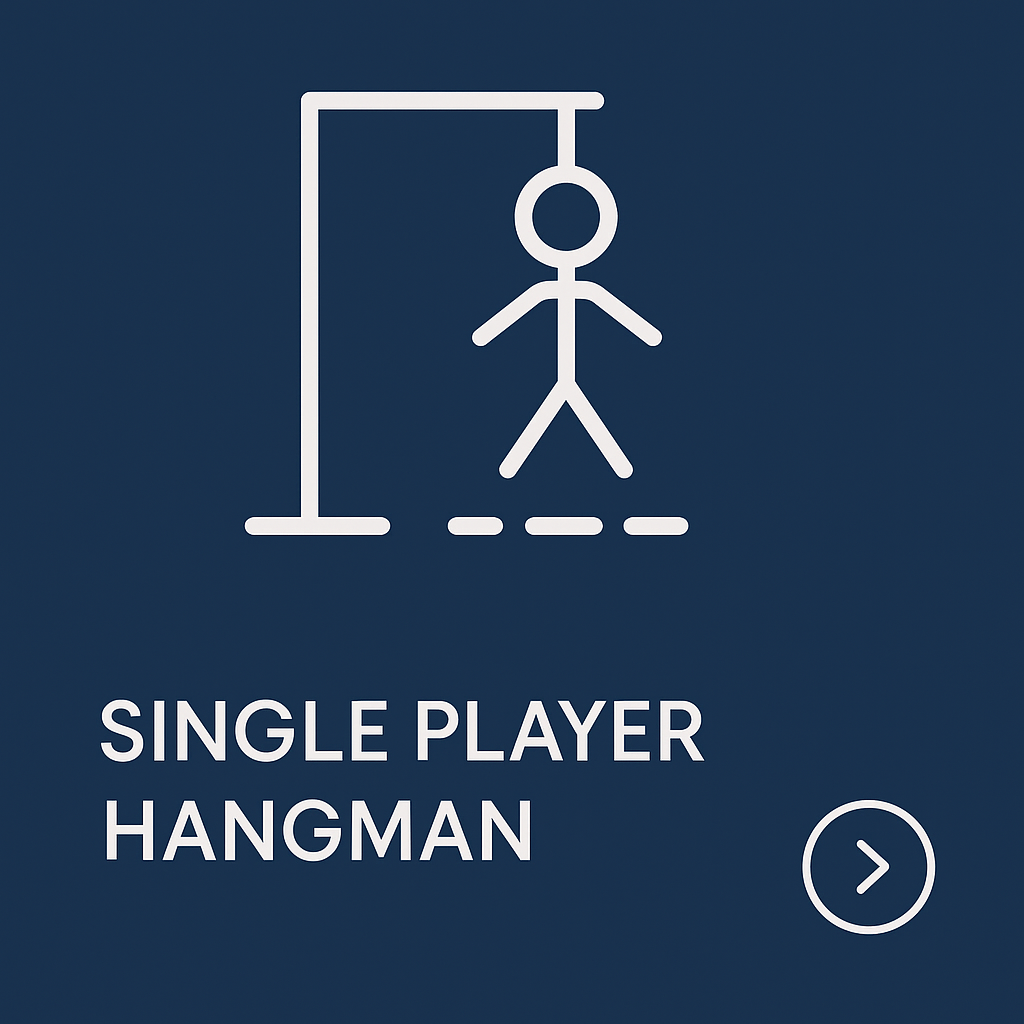
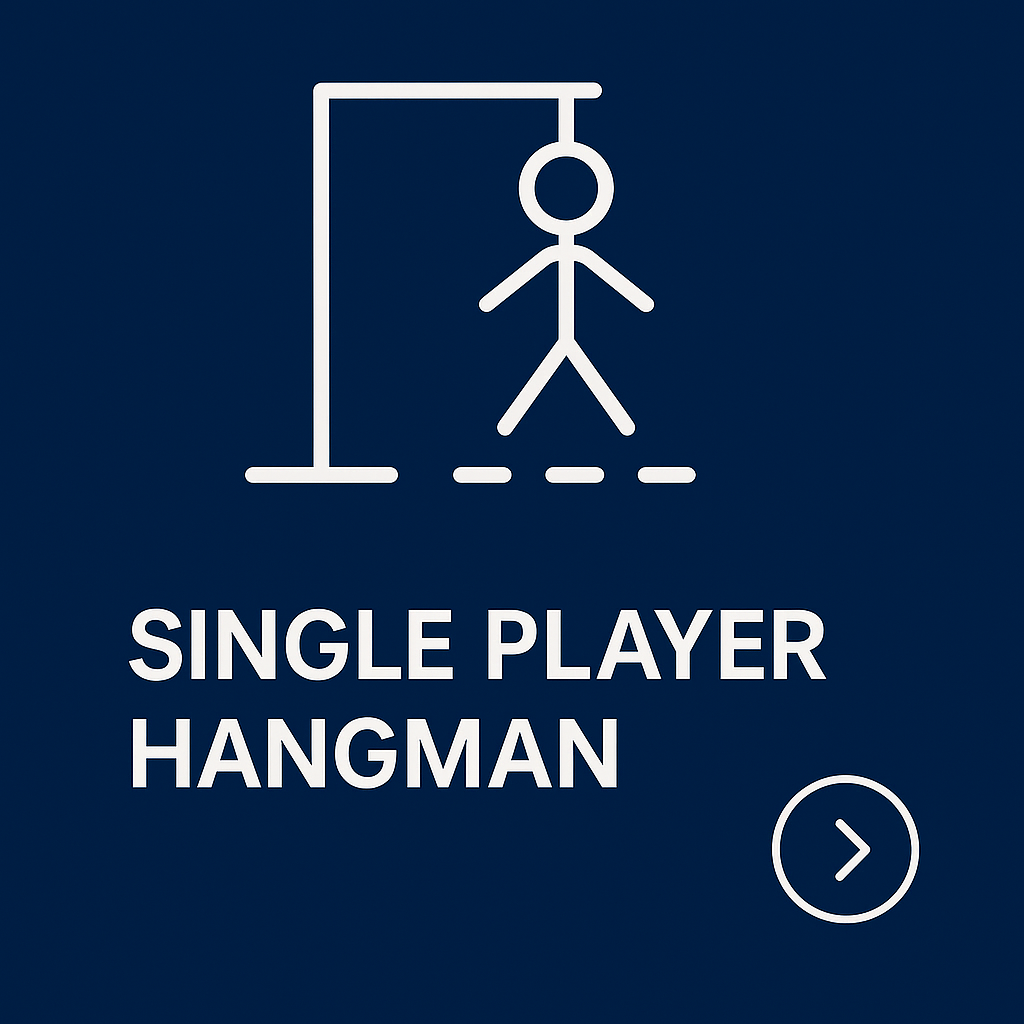
Removed extra writing of the games from the bottom

diff --git a/src/pages/Dashboard.jsx b/src/pages/Dashboard.jsx
@@ -5,6 +5,8 @@ import singleHangmanImg      from '../assets/singlehangman.png';
 import multiHangmanImg       from '../assets/multiplayerhangman.png';
 import singleTicTacToeImg    from '../assets/singleplayertictactoe.png';
 import multiTicTacToeImg     from '../assets/multiplayertictactoe.png';
+import singleConnectFourImg from '../assets/connectfoursingleplayer.png';
+import multiConnectFourImg  from '../assets/connectfourmultiplayer.png';
 import { useEffect, useState } from 'react';
 import { auth, db }         from '../firebase-config';
 import {
@@ -211,11 +213,9 @@ export default function Dashboard() {
         <div className="game-grid">
           <div className="game-card" onClick={() => navigate('/hangman/single')}>
             <img src={singleHangmanImg} alt="Single Player Hangman" />
-            <p>Single Hangman</p>
           </div>
           <div className="game-card" onClick={() => navigate('/hangman/multiplayer')}>
             <img src={multiHangmanImg} alt="Multiplayer Hangman" />
-            <p>Multiplayer Hangman</p>
           </div>
         </div>
 
@@ -223,23 +223,19 @@ export default function Dashboard() {
         <div className="game-grid">
           <div className="game-card" onClick={() => navigate('/tictactoe/single')}>
             <img src={singleTicTacToeImg} alt="Single Player Tic-Tac-Toe" />
-            <p>Single Tic-Tac-Toe</p>
           </div>
           <div className="game-card" onClick={() => navigate('/tictactoe/multiplayer')}>
             <img src={multiTicTacToeImg} alt="Multiplayer Tic-Tac-Toe" />
-            <p>Multiplayer Tic-Tac-Toe</p>
           </div>
         </div>
 
         {/* Connect Four */}
         <div className="game-grid">
           <div className="game-card" onClick={() => navigate('/connect4/single')}>
-            <img src="https://via.placeholder.com/150" alt="Single Player Connect Four" />
-            <p>Single Connect Four</p>
+            <img src={singleConnectFourImg} alt="Single Player Connect Four" />
           </div>
           <div className="game-card" onClick={() => navigate('/connect4/multiplayer')}>
-            <img src="https://via.placeholder.com/150" alt="Multiplayer Connect Four" />
-            <p>Multiplayer Connect Four</p>
+            <img src={multiConnectFourImg} alt="Multiplayer Connect Four" />
           </div>
         </div>
       </main>
